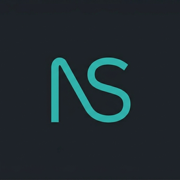
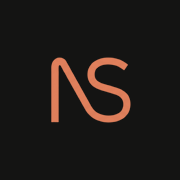
feat(brand): 로고 마크 테라코타 재채색 — 따뜻한 다크 팔레트 정합
틸(#2FB2AC)/네이비 NS 마크가 2026-09-13 팔레트 전환 뒤 화면과 겉돌아
테라코타 #E0805C / 배경 #141413으로 재채색한다(벡터 원본이 없어 래스터
재채색 — 틸 방향 투영에 G−R 가중을 곱해 마크 알파를 뽑고 색만 치환,
생성 워터마크 제거). 형태는 그대로다.

- public/nullStock.png(정본)·app/icon.png·apple-icon.png·opengraph-image.png
- NullstockLogoMark: feFuncA intercept 0→0.18 (테라코타는 휘도가 낮아
  옛 값에선 알파 0.82로 흐렸다)
- 모바일 내비도 같은 컴포넌트로 통일 — 전에는 필터 없는 <image>라
  마크 뒤 상자가 비쳤다(테스트는 마크 2개 + 필터 id 단언)

프론트 2,101건 전체 통과. tsc 오류 4건은 기존(무관 파일).

diff --git a/components/layout/NullstockLogoMark.tsx b/components/layout/NullstockLogoMark.tsx
@@ -1,5 +1,6 @@
 // 널스탁 로고 마크 — `/nullStock.png`을 SVG <image>로 얹고, 어두운 배경 위에서
 // 원본 이미지의 검은 배경을 지우는 색 필터를 씌운다(내비게이션 로고와 동일한 방식).
+// 2026-09-14 테라코타 마크(휘도 .57)로 바꾸면서 절편 .18 — 마크 알파 1.0, 배경(휘도 .08)은 0.
 //
 // 필터 id는 인스턴스마다 달라야 한다 — 한 화면에 두 개가 놓이면 같은 id가 충돌한다.
 export default function NullstockLogoMark({
@@ -35,7 +36,7 @@ export default function NullstockLogoMark({
             "
           />
           <feComponentTransfer>
-            <feFuncA type="linear" slope="2.2" intercept="0" />
+            <feFuncA type="linear" slope="2.2" intercept="0.18" />
           </feComponentTransfer>
         </filter>
       </defs>

diff --git a/components/layout/TopNavigation.tsx b/components/layout/TopNavigation.tsx
@@ -557,13 +557,10 @@ function TopNavigationComponent({ userName }: { userName?: string }) {
             onClick={() => setIsMobileMenuOpen(false)}
             className="group flex min-w-0 items-center gap-2"
           >
-            <svg
-              aria-hidden="true"
-              viewBox="510 215 400 330"
-              className="h-[1.125rem] w-[1.375rem] flex-shrink-0 overflow-hidden"
-            >
-              <image href="/nullStock.png" width="1408" height="768" />
-            </svg>
+            <NullstockLogoMark
+              className="h-[1.125rem] w-[1.375rem] flex-shrink-0"
+              filterId="nullstock-logo-mobile"
+            />
             <span className="truncate text-[15px] font-black tracking-tight text-white">
               {t("널스탁")}
             </span>

diff --git a/components/__tests__/TopNavigationQuickSearch.test.tsx b/components/__tests__/TopNavigationQuickSearch.test.tsx
@@ -232,7 +232,14 @@ describe("TopNavigation quick search", () => {
   it("상단 로고는 원본 이미지 기반의 투명 NS 마크를 표시한다", async () => {
     renderWithQueryClient(<TopNavigation />);
 
-    const logoMark = screen.getByTestId("nullstock-logo-mark");
+    // 모바일·데스크톱 내비가 각자 마크를 그린다(둘 다 배경 제거 필터, id만 다름)
+    const logoMarks = screen.getAllByTestId("nullstock-logo-mark");
+    expect(logoMarks).toHaveLength(2);
+    expect(logoMarks[0].querySelector("image")).toHaveAttribute(
+      "filter",
+      "url(#nullstock-logo-mobile)"
+    );
+    const logoMark = logoMarks[1];
     const homeLink = logoMark.closest("a");
     const sourceImage = logoMark.querySelector("image");
 

diff --git a/docs/software_architecture.md b/docs/software_architecture.md
@@ -264,7 +264,7 @@ KR/EN 언어 토글을 폐지하고 **URL 경로 기반의 지역 서비스**로
 - **플랜 변경**: 방향에 따라 갈린다. **다운그레이드**는 PayPal revise로 빌링 플랜만 예약 교체 — 남은 기간은 기존 플랜(planTier) 유지, `subscriptionPlanId`가 다음 청구 플랜을 들고 있다가 다음 결제가 확정될 때 등급이 전환된다(두 필드가 다르면 "예약 중"이며 조회 경로는 등급을 앞당기지 않는다). **업그레이드**는 즉시 전환·즉시 청구·**갱신일 고정** — 기본 상위 플랜으로 새 구독을 만들어 변경일이 새 결제 기준일(+1개월)이 되고, 옛 플랜의 미사용 백테스트 횟수는 새 사용량 주기에 병합된다(`activatePaypalSubscription`의 음수 카운터 이월, 표시는 `getPlanUsage`가 한도에 가산). 이전 구독은 `paypalPriorSubscriptionId`에 보관했다가 새 구독 활성화 웹훅에서 해지한다(먼저 해지하면 승인 이탈 시 구독 소실, 해지 실패는 500으로 드러내 웹훅 재전송이 재시도). 어느 쪽이든 새 구독을 겹쳐 만드는 일반 생성 경로는 409로 차단된다.
 - **결제 스키마**: `User.paymentProvider`(toss|paypal)·`paypalSubscriptionId`·`paypalPayerId`, `PaymentOrder.provider`·`currency`(금액은 통화 최소 단위 — KRW=원, USD=센트), `PaymentWebhookEvent`(PSP 웹훅 재전송 멱등 키). 마이그레이션 `20260830000000_add_paypal_subscription`은 additive이며 **prod 수동 적용 대상**이다.
 - **요금제 분기**: `/us/pricing`은 `app/pricing/page.tsx` 최상단에서 지역 분기로 `components/pricing/us/UsPricingPage.tsx`(영어·USD 전용, PayPal 배선 전까지 유료 CTA는 준비 중 표시)를 렌더한다. 카드 자체는 `components/pricing/us/UsPricingPlans.tsx`가 한국 카드(`PricingPlans`)와 **동일한 레이아웃·8행 기능 목록**으로 그리며, 결제 배선만 다르다(토스 체크아웃 미사용 → CTA 비활성). 표시 금액은 `lib/pricing/us.ts`의 `monthlyPrice`·`initialInvestmentAmount`(둘 다 확정 필요한 초기값)에서 온다. 한국(토스) 경로는 변경 없이 유지된다.
-- **SEO** (2026-09-13 정비): 문구·URL·구조화 데이터의 정본은 `lib/seo/site.ts` 하나다(제목·설명·키워드는 '퀀트'·'백테스트'를 앞세우고 추천·전망·보장 표현을 쓰지 않는다 — 회귀 `lib/seo/site.test.ts`). `app/layout.tsx`가 지역별 제목 템플릿(`%s | 널스탁`)·설명·키워드·robots·Open Graph(siteName·locale)·Twitter 카드·검색엔진 소유 확인 메타(`GOOGLE_SITE_VERIFICATION`·`NAVER_SITE_VERIFICATION`, 비우면 미출력)를 낸다. 홈(`app/page.tsx`)은 absolute 제목+hreflang(ko-KR·en-US·x-default)+JSON-LD(`components/seo/HomeStructuredData.tsx`: Organization·WebSite·WebApplication)를 싣고, 약관·개인정보 쿼리 뷰는 제목·canonical만 바꾼다. 랜딩 헤드라인은 페이지 유일 `h1`이다(랜딩 소개 섹션은 사용자 결정으로 넣지 않는다 — 본문 노출은 별도 콘텐츠 페이지로). 파비콘·OG 이미지는 파일 규약(`app/icon.png`·`apple-icon.png`·`opengraph-image.png`, 로고에서 잘라냄). `app/sitemap.ts`는 공개 진입점(`/`·`/us`·`/us/pricing`)만 담고 홈 쌍에 hreflang을 붙인다 — 한국 `/pricing`은 비로그인 요청을 `/`로 리다이렉트하므로 넣지 않는다. `app/robots.ts`는 로그인 뒤 앱 화면(`PRIVATE_PATHS`, 양 지역 프리픽스)을 차단한다. Next는 `openGraph`를 얕게 덮어쓰므로 페이지가 OG를 주면 `buildOpenGraph()`로 siteName·locale까지 다시 채운다.
+- **SEO** (2026-09-13 정비): 문구·URL·구조화 데이터의 정본은 `lib/seo/site.ts` 하나다(제목·설명·키워드는 '퀀트'·'백테스트'를 앞세우고 추천·전망·보장 표현을 쓰지 않는다 — 회귀 `lib/seo/site.test.ts`). `app/layout.tsx`가 지역별 제목 템플릿(`%s | 널스탁`)·설명·키워드·robots·Open Graph(siteName·locale)·Twitter 카드·검색엔진 소유 확인 메타(`GOOGLE_SITE_VERIFICATION`·`NAVER_SITE_VERIFICATION`, 비우면 미출력)를 낸다. 홈(`app/page.tsx`)은 absolute 제목+hreflang(ko-KR·en-US·x-default)+JSON-LD(`components/seo/HomeStructuredData.tsx`: Organization·WebSite·WebApplication)를 싣고, 약관·개인정보 쿼리 뷰는 제목·canonical만 바꾼다. 랜딩 헤드라인은 페이지 유일 `h1`이다(랜딩 소개 섹션은 사용자 결정으로 넣지 않는다 — 본문 노출은 별도 콘텐츠 페이지로). 파비콘·OG 이미지는 파일 규약(`app/icon.png`·`apple-icon.png`·`opengraph-image.png`, 로고에서 잘라냄). 2026-09-14 로고 마크를 따뜻한 다크 팔레트에 맞춰 테라코타(`#E0805C`)/배경 `#141413`으로 재채색했다 — 자산은 `public/nullStock.png`(정본)·위 3개 PNG 넷뿐이고, 화면 표시는 모두 `components/layout/NullstockLogoMark.tsx`(배경 제거 필터, 인스턴스마다 다른 `filterId`)를 거친다(모바일 내비도 2026-09-14부터 같은 컴포넌트 — 그 전에는 필터 없는 `<image>`라 마크 뒤 상자가 비쳤다). `app/sitemap.ts`는 공개 진입점(`/`·`/us`·`/us/pricing`)만 담고 홈 쌍에 hreflang을 붙인다 — 한국 `/pricing`은 비로그인 요청을 `/`로 리다이렉트하므로 넣지 않는다. `app/robots.ts`는 로그인 뒤 앱 화면(`PRIVATE_PATHS`, 양 지역 프리픽스)을 차단한다. Next는 `openGraph`를 얕게 덮어쓰므로 페이지가 OG를 주면 `buildOpenGraph()`로 siteName·locale까지 다시 채운다.
 
 ### 3.1 페이지 구조
 
